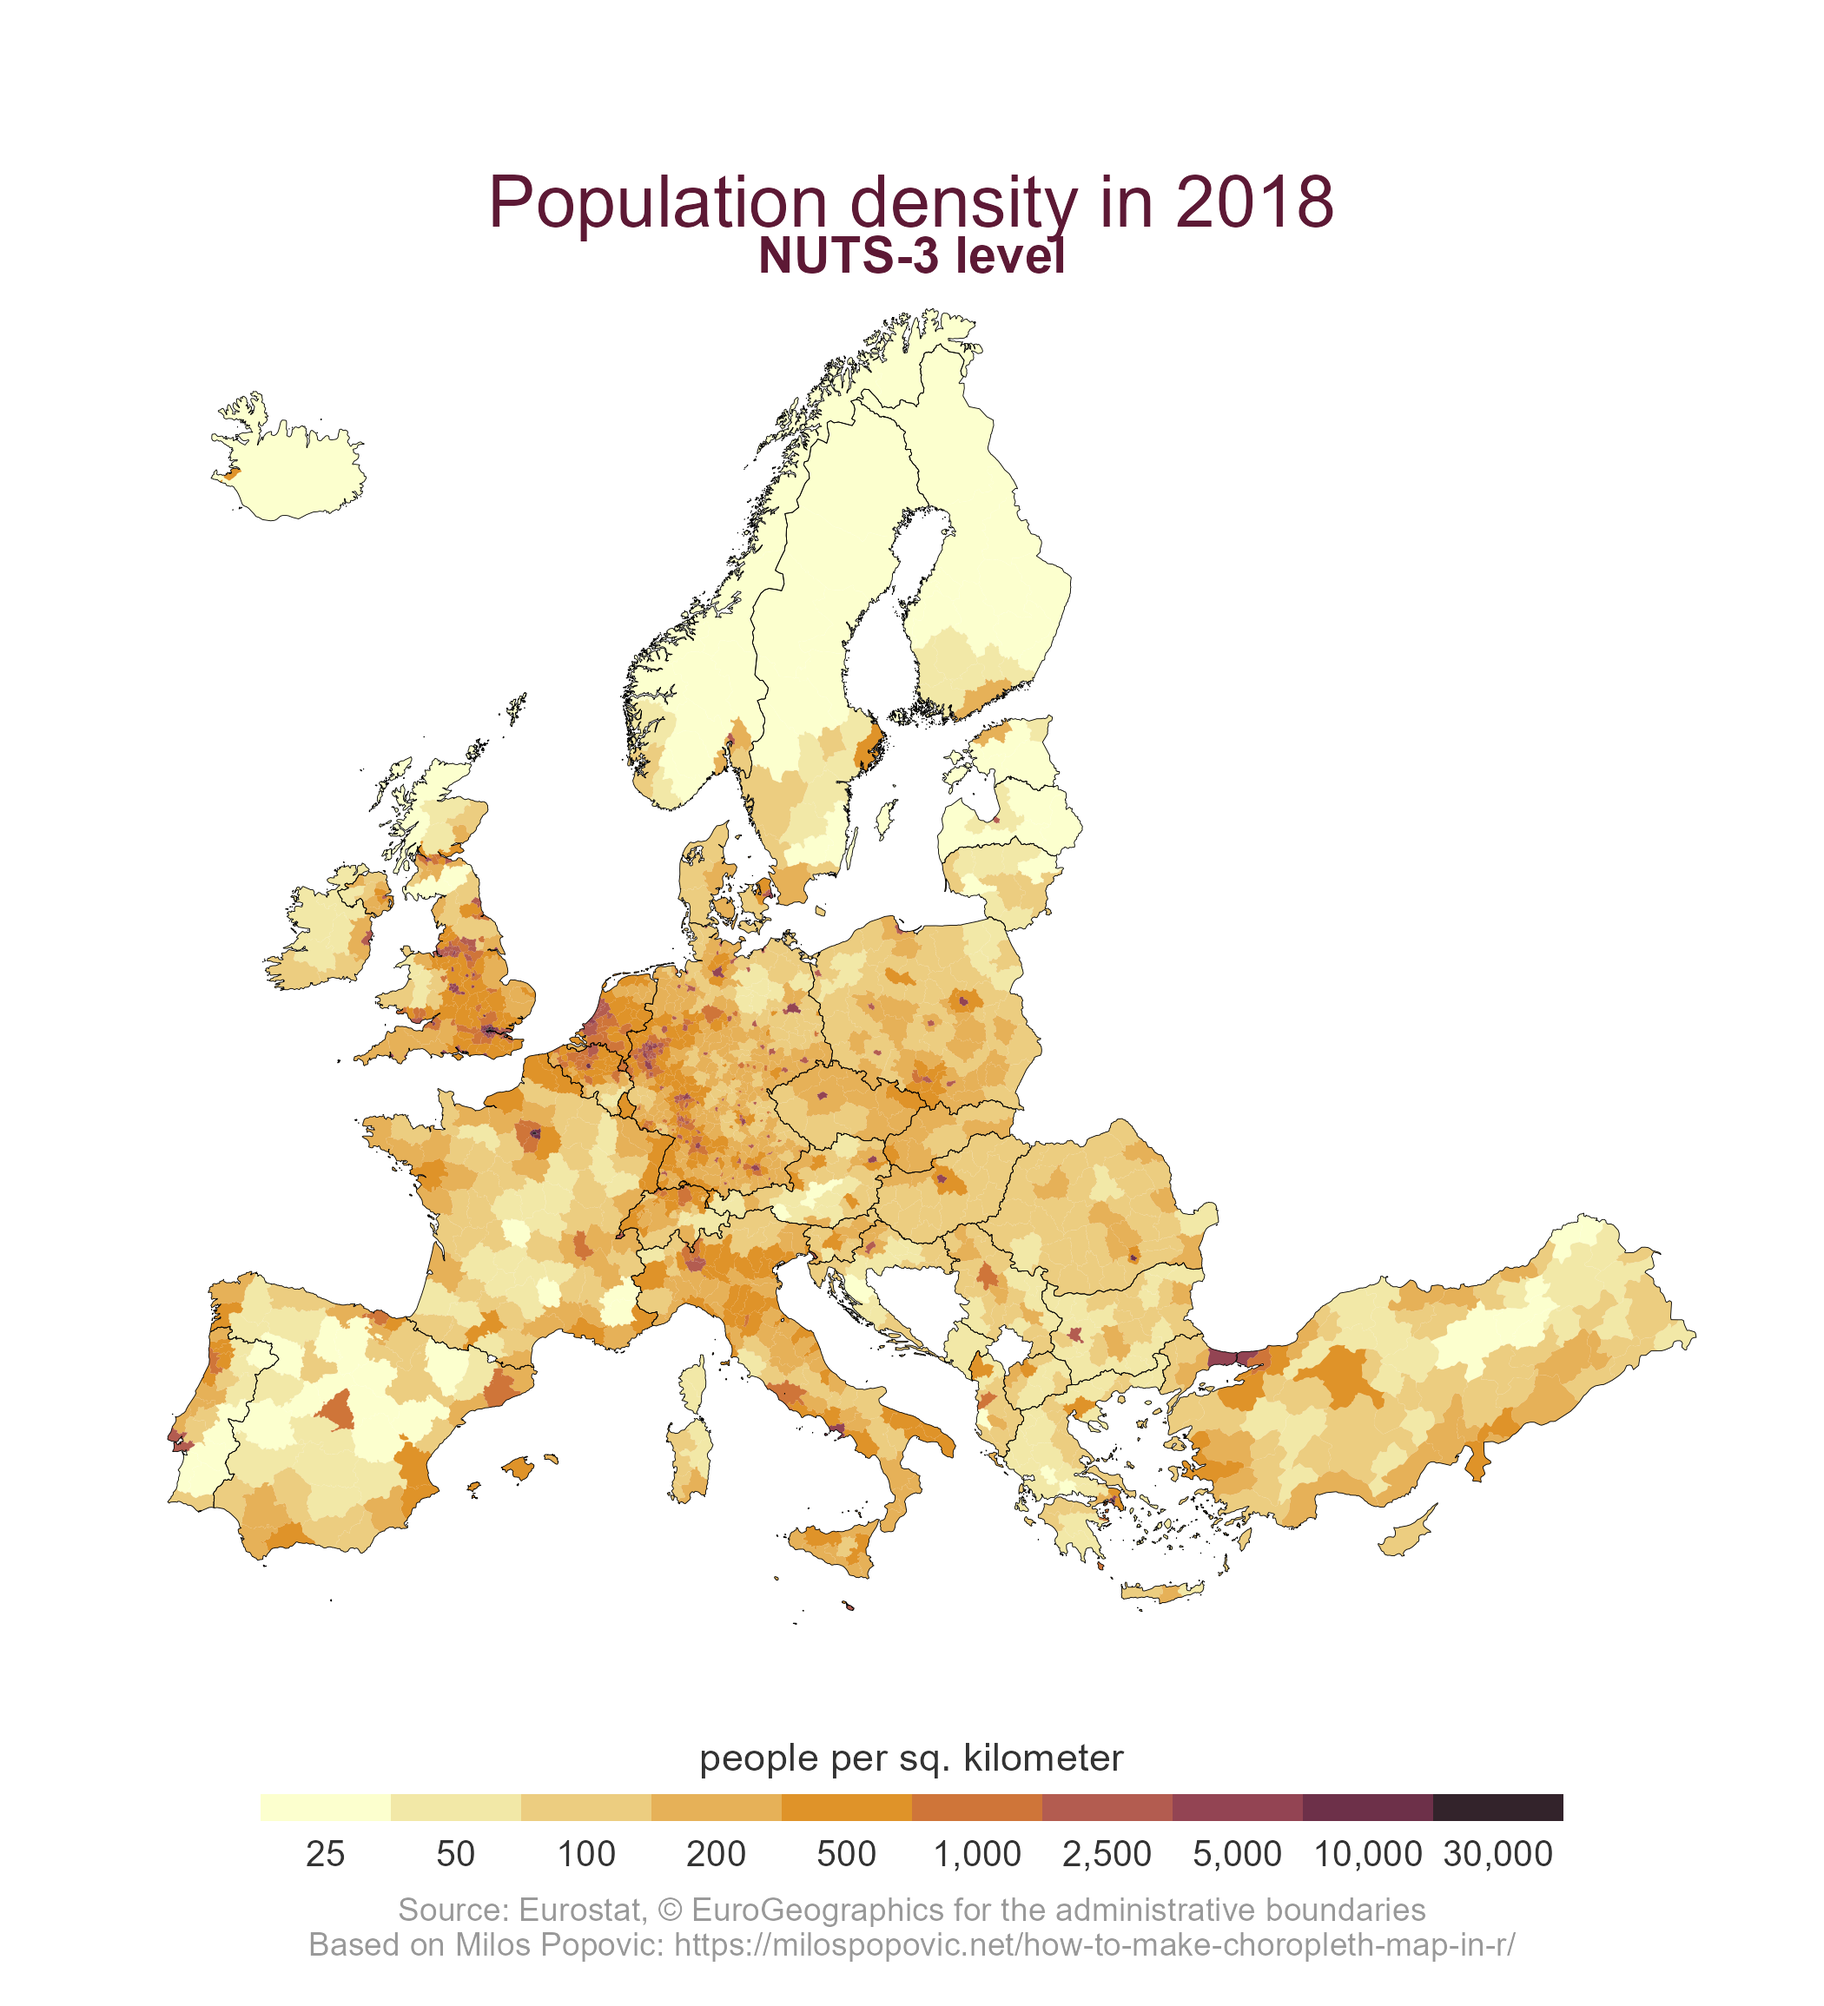
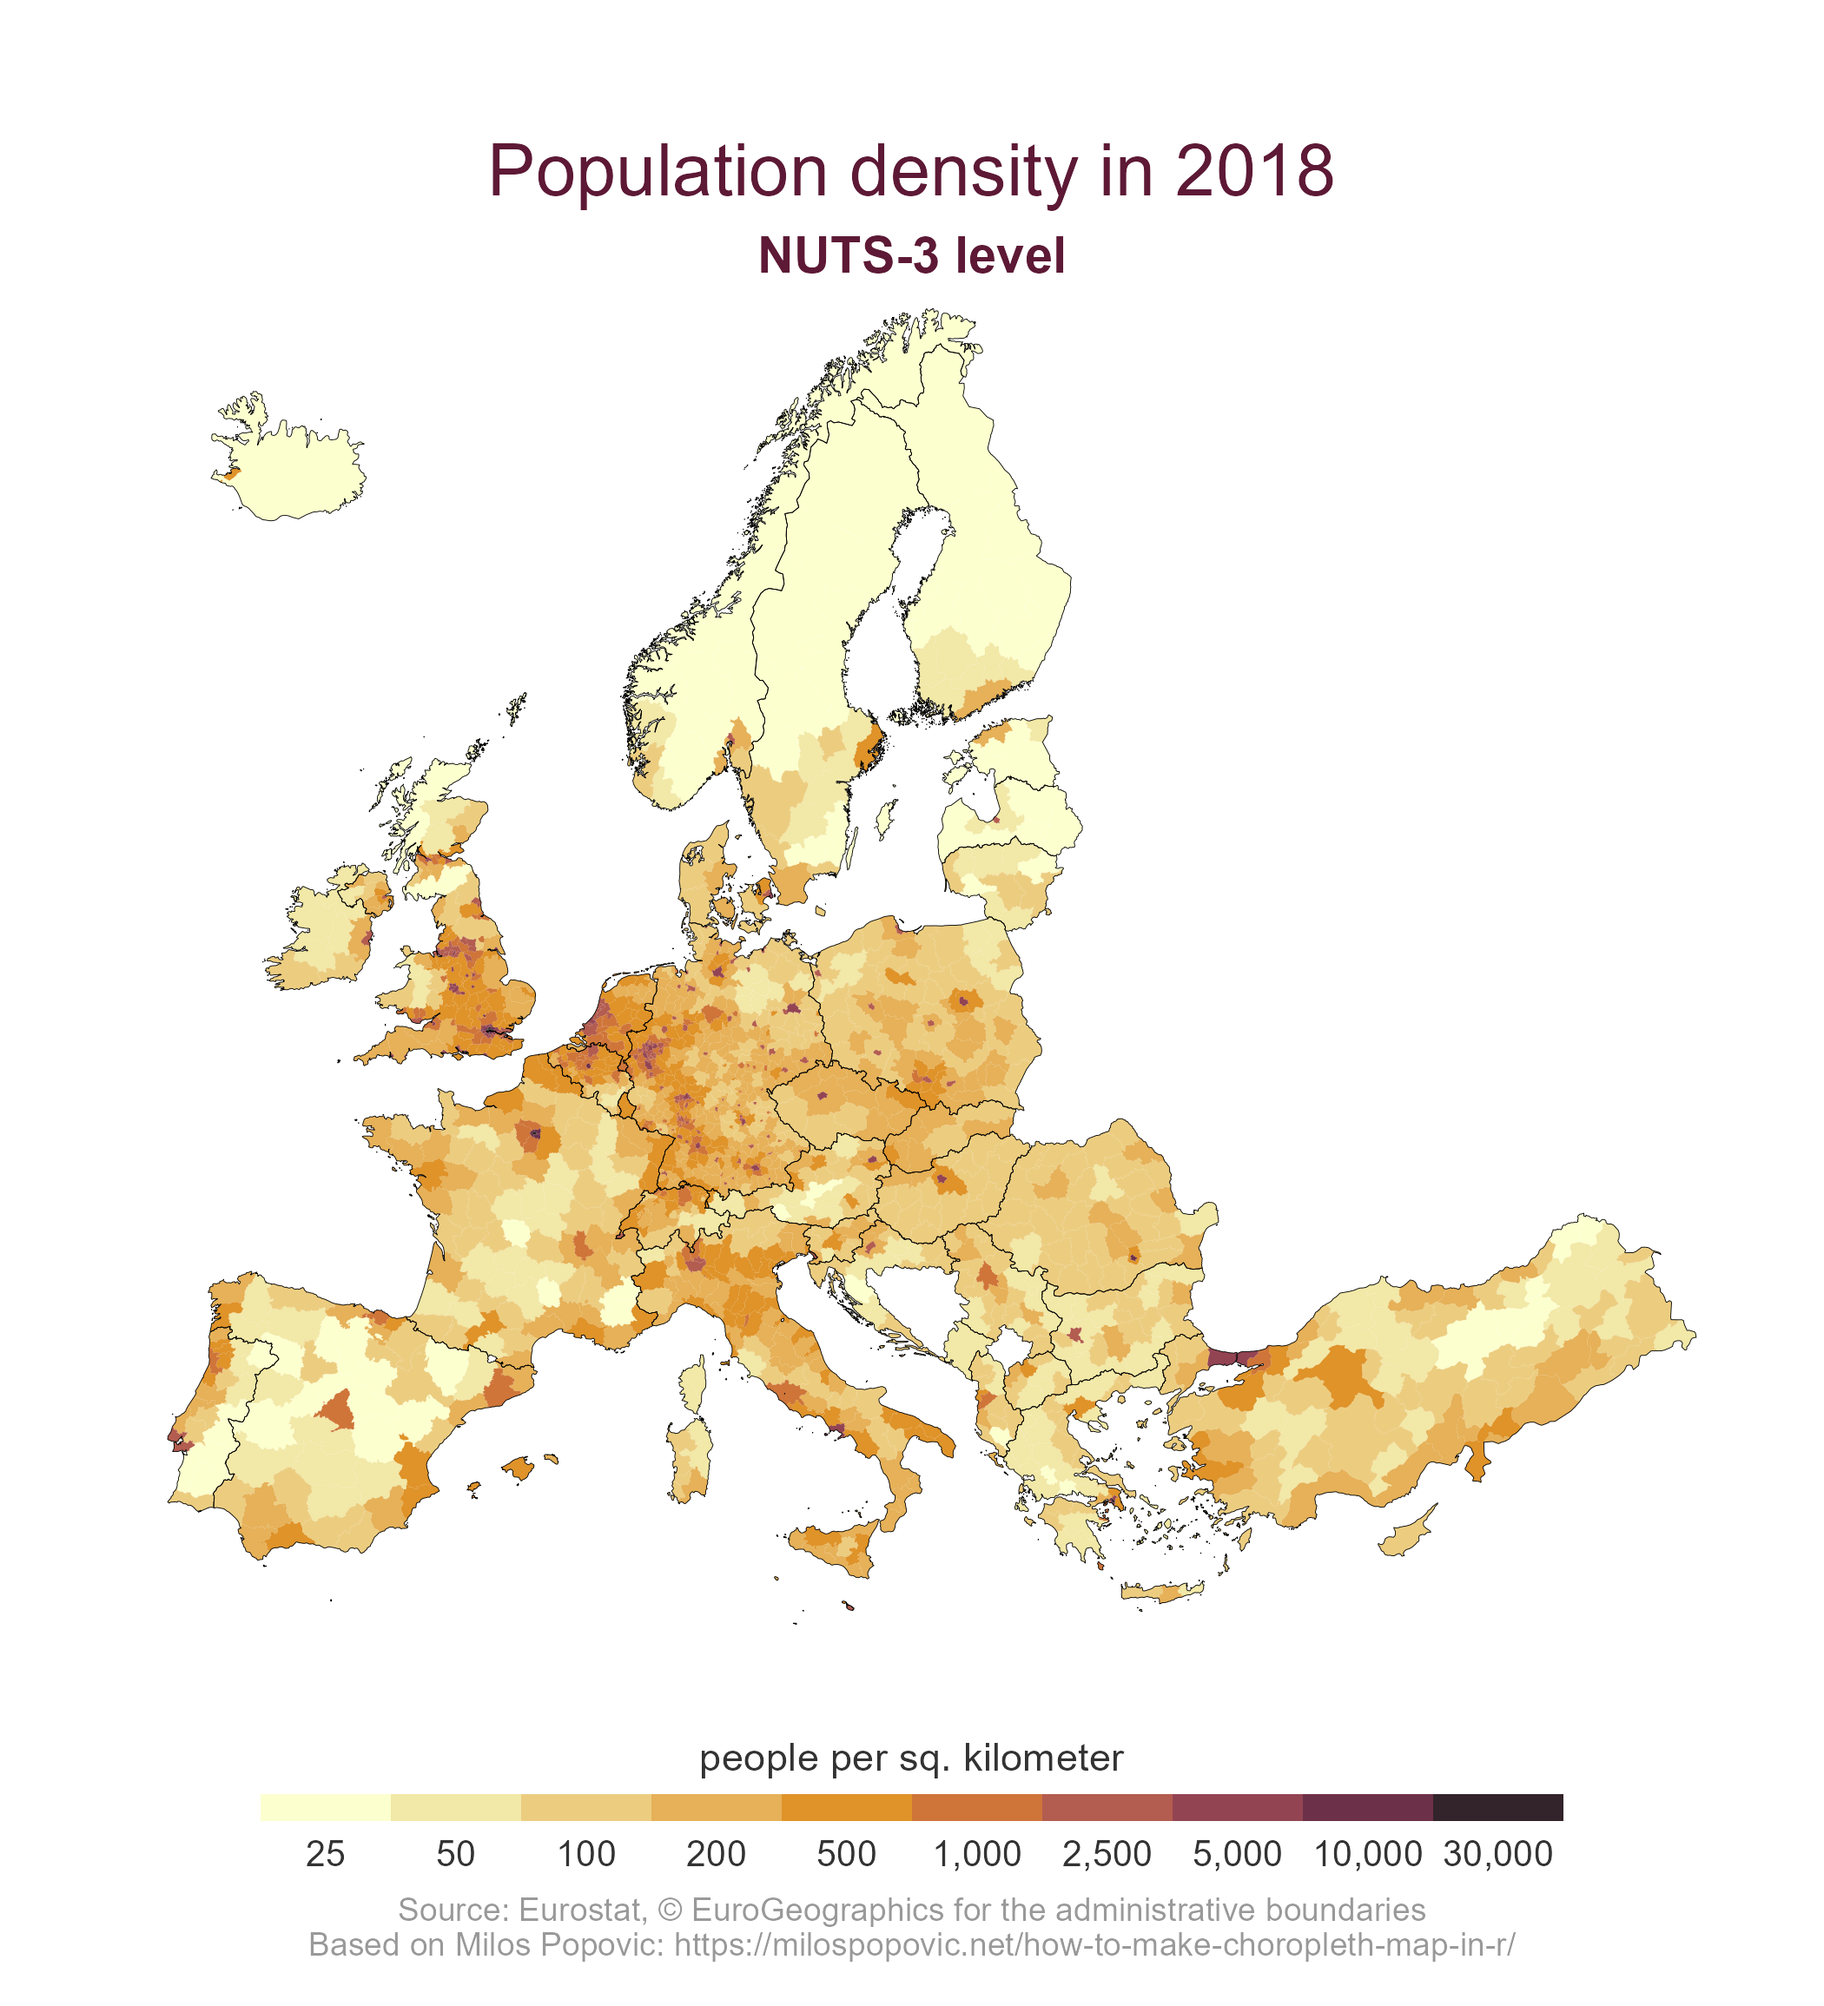
Update img

Changed region(s): [[0.2476, 0.0623, 0.7429, 0.1247], [0.5262, 0.6857, 0.5571, 0.7169]]

diff --git a/README.md b/README.md
@@ -251,7 +251,7 @@ ggplot(nuts3.sf) +
   theme(
     plot.title = element_text(
       size = 20, color = pal[length(pal) - 1],
-      hjust = 0.5, vjust = -8
+      hjust = 0.5, vjust = -6
     ),
     plot.subtitle = element_text(
       size = 14,
@@ -329,8 +329,8 @@ citation("giscoR")
 #> 
 #> To cite the 'giscoR' package in publications use:
 #> 
-#>   Hernangómez, D (2021). giscoR: Download Map Data from GISCO API -
-#>   Eurostat. R package version 0.2.4.9008.
+#>   D. Hernangómez (2021). giscoR: Download Map Data from GISCO API -
+#>   Eurostat. R package version 0.2.4.
 #>   http://doi.org/10.5281/zenodo.4317946. Package url:
 #>   https://CRAN.R-project.org/package=giscoR
 #> 
@@ -340,7 +340,7 @@ citation("giscoR")
 #>     title = {giscoR: Download Map Data from GISCO API - Eurostat},
 #>     author = {Diego Hernangómez},
 #>     year = {2021},
-#>     note = {R package version 0.2.4.9008},
+#>     note = {R package version 0.2.4},
 #>     url = {https://CRAN.R-project.org/package=giscoR},
 #>     doi = {10.5281/zenodo.4317946},
 #>   }
